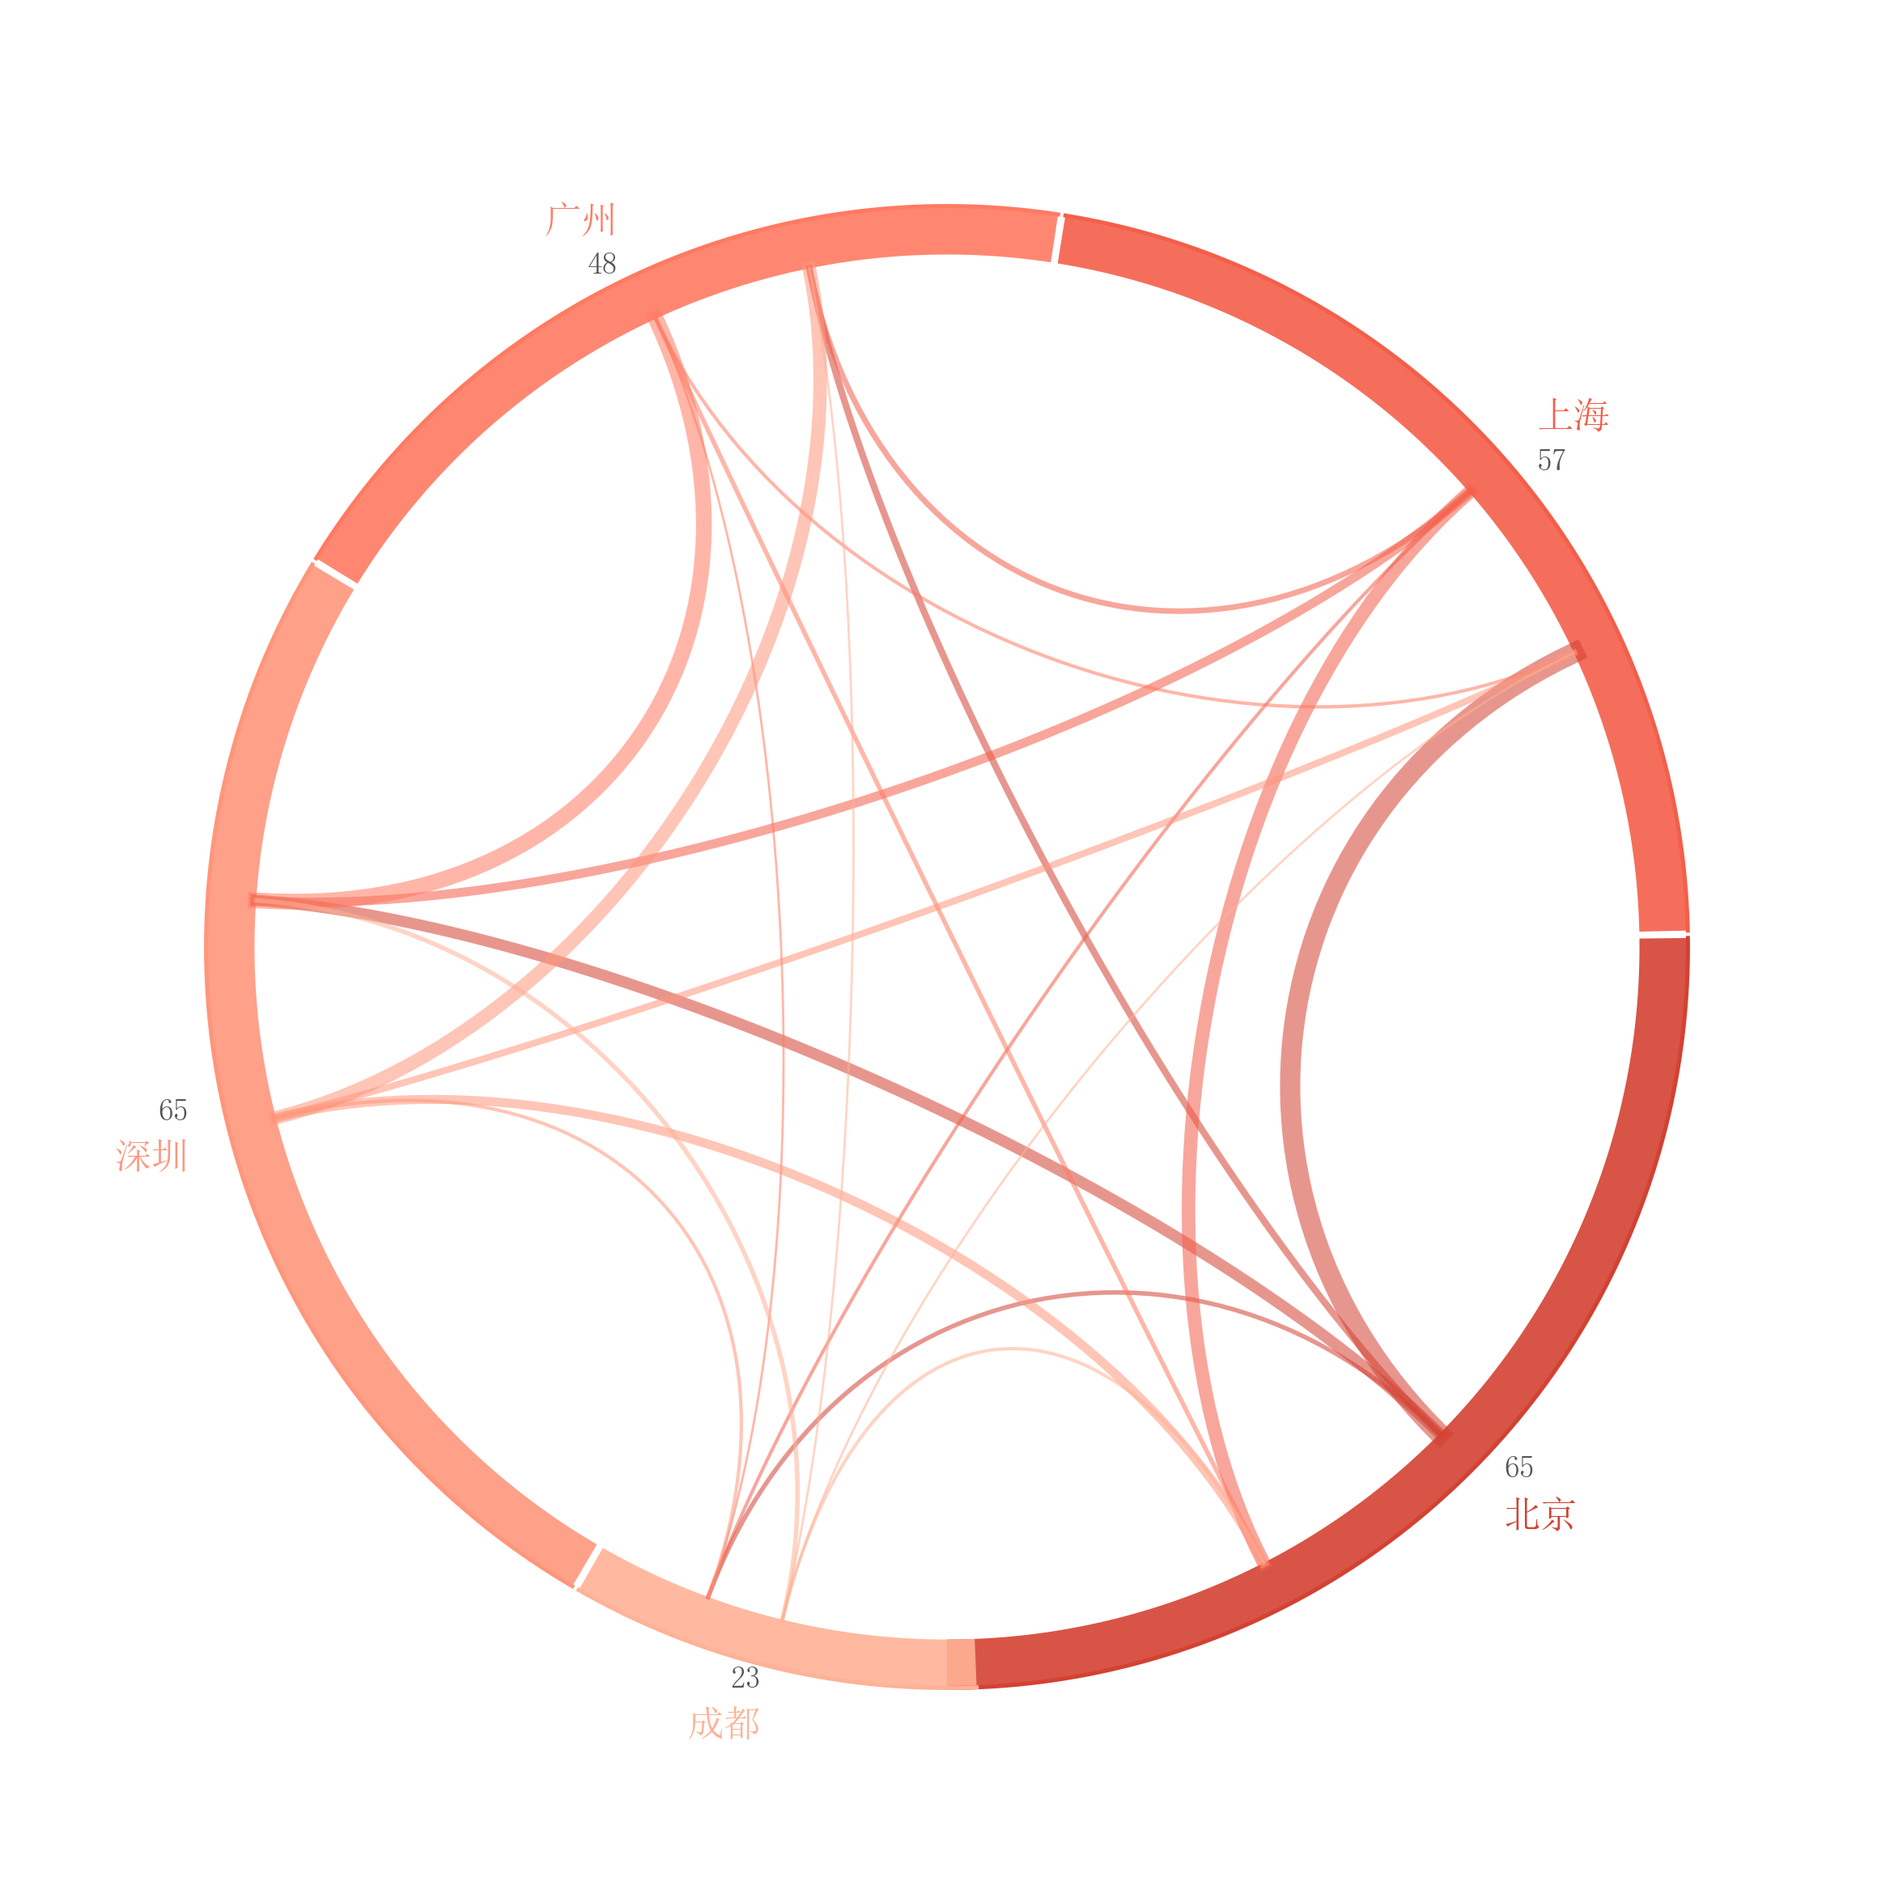
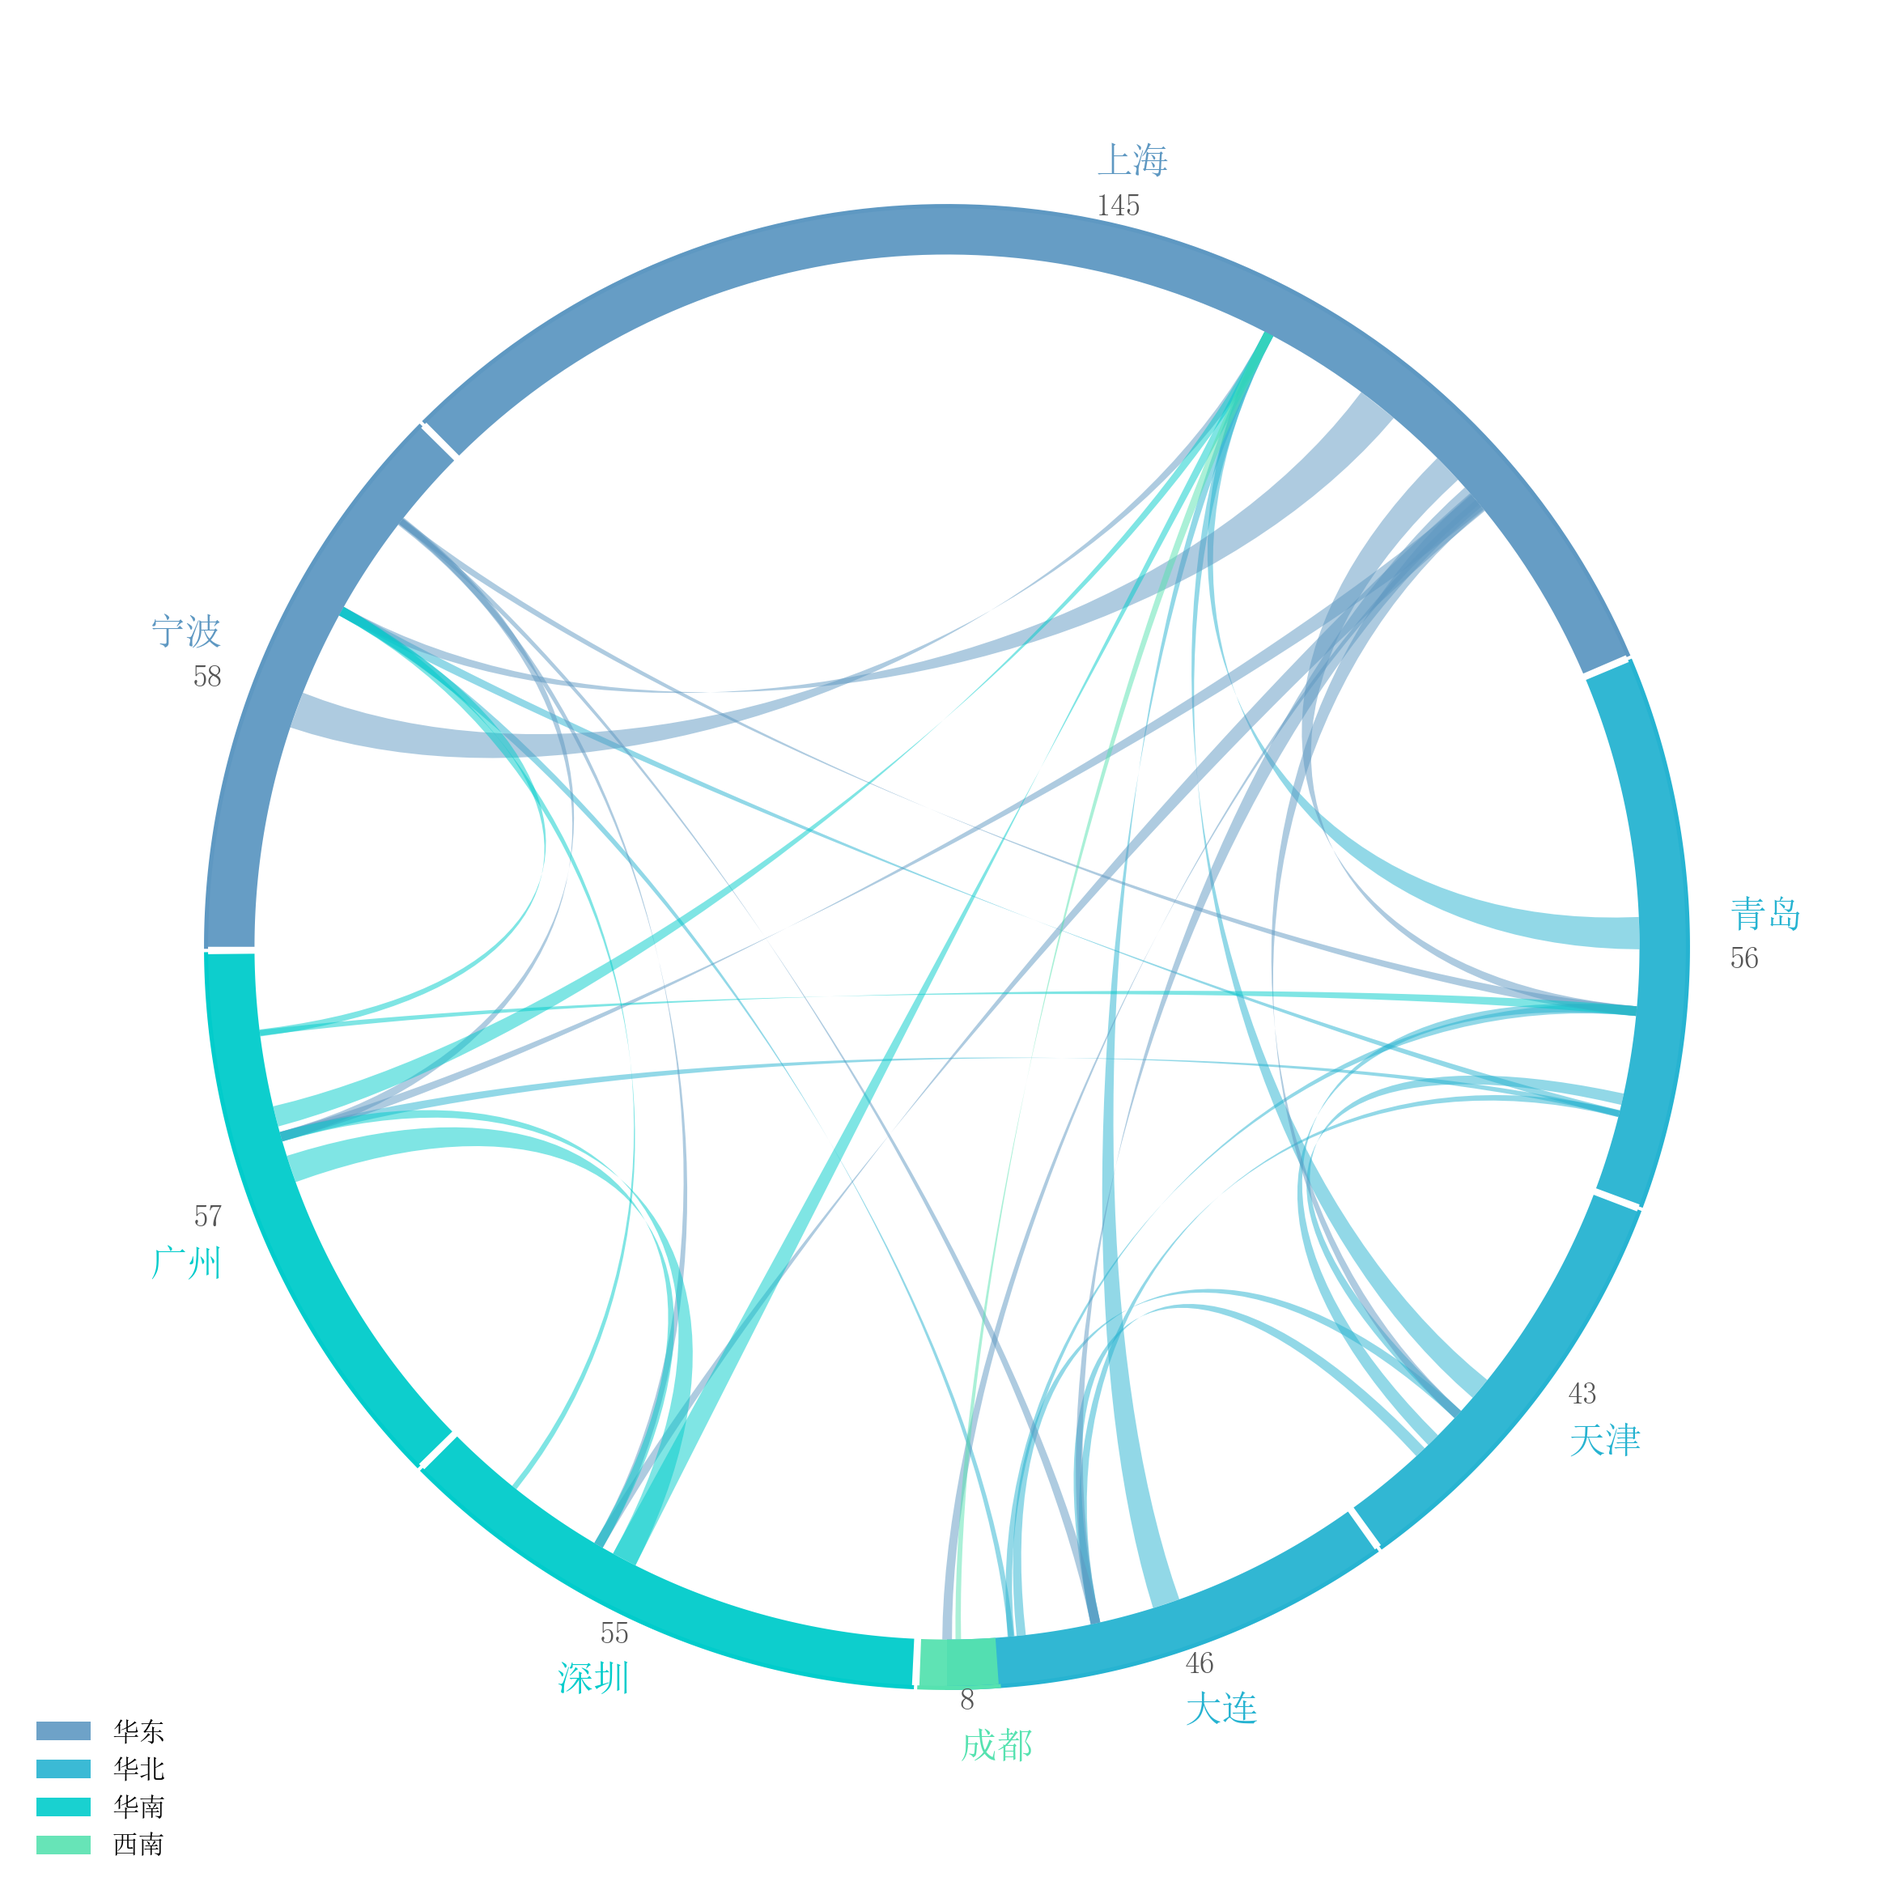
feat(chord): 弦图升级 - 渐变宽度弦Polygon/color_by分组着色+图例/min_flow过滤/流量比例定位

diff --git a/sciplot/_plots/advanced.py b/sciplot/_plots/advanced.py
@@ -603,7 +603,9 @@ def plot_chord(
     title: str = "",
     width: float = 0.07,
     gap: float = 0.01,
-    alpha: float = 0.55,
+    alpha: float = 0.5,
+    min_flow: float = 0.0,
+    color_by: Optional[List[str]] = None,
     show_values: bool = False,
     venue: Optional[str] = None,
     palette: Optional[str] = None,
@@ -613,21 +615,27 @@ def plot_chord(
     """
     绘制弦图（Chord Diagram，节点间流量/共现关系）
 
-    节点沿圆周排列，弧长编码节点总流量；节点间连线（贝塞尔曲线）
-    宽度编码双向流量，适合展示转移矩阵、共现关系、资源流向。
+    节点沿圆周排列，弧长编码节点总流量；节点间弦（渐变宽度多边形）
+    宽度编码流量、颜色取自源节点，源端宽而目标端收窄，
+    适合展示转移矩阵、共现关系、资源流向。
 
     参数:
         matrix     : 流量/共现矩阵 (n, n)，要求非负
         labels     : 节点标签（等长）；None 则用序号
         width      : 外圈弧宽（占单位半径比例），默认 0.07
         gap        : 弧段间最小间隙（弧度），默认 0.01
-        alpha      : 弦线透明度
+        alpha      : 弦透明度
+        min_flow   : 最小流量阈值，低于该值的弦不绘制（过滤噪声）
+        color_by   : 节点分类标签（等长）；提供时按类别着色并生成图例
         show_values: 是否在弧外显示各节点总量
 
     示例:
-        >>> # 城市间迁移流量
+        >>> # 城市间迁移流量（按区域分组着色）
         >>> fig, ax = sp.plot_chord(
-        ...     flow_matrix, labels=["北京", "上海", "广州", "深圳"],
+        ...     flow_matrix,
+        ...     labels=["北京", "上海", "广州", "深圳", "成都"],
+        ...     color_by=["华北", "华东", "华南", "华南", "西南"],
+        ...     min_flow=1.0,
         ... )
         >>> sp.save(fig, "chord")
     """
@@ -650,6 +658,13 @@ def plot_chord(
         labels = [str(i + 1) for i in range(n)]
     if not 0 < width < 1:
         raise ValueError(f"width 必须在 (0, 1) 范围内，实际值: {width!r}")
+    if min_flow < 0:
+        raise ValueError(f"min_flow 必须为非负数，实际值: {min_flow!r}")
+    if color_by is not None:
+        if len(color_by) != n:
+            raise ValueError(
+                f"color_by 长度 ({len(color_by)}) 与矩阵维度 ({n}) 不一致"
+            )
 
     effective_venue = apply_resolved_style(venue, palette, lang)
     from sciplot._core.style import VENUES
@@ -659,6 +674,16 @@ def plot_chord(
     fig, ax = plt.subplots(figsize=(size, size))
 
     colors = get_cycle_colors()
+
+    # 节点颜色：color_by 分类或默认逐节点
+    if color_by is not None:
+        unique_groups = sorted(set(color_by), key=str)
+        group_map = {g: colors[i % len(colors)] for i, g in enumerate(unique_groups)}
+        node_colors = [group_map[g] for g in color_by]
+        categorical_legend = group_map
+    else:
+        node_colors = [colors[i % len(colors)] for i in range(n)]
+        categorical_legend = None
 
     # 节点总流量（行 + 列）
     totals = mat.sum(axis=1) + mat.sum(axis=0)
@@ -684,43 +709,58 @@ def plot_chord(
         return r * np.cos(theta), r * np.sin(theta)
 
     # ── 外圈弧段 ──
-    theta_grid = np.linspace(0, 2 * np.pi, 720)
     for i in range(n):
         start, end = arc_starts[i], arc_ends[i]
-        color = colors[i % len(colors)]
+        color = node_colors[i]
         seg = np.linspace(start, end, 100)
         r_in = 1.0
         r_out = 1.0 + width
         xs = np.concatenate([r_out * np.cos(seg), r_in * np.cos(seg[::-1])])
         ys = np.concatenate([r_out * np.sin(seg), r_in * np.sin(seg[::-1])])
-        ax.fill(xs, ys, color=color, alpha=0.9, edgecolor="none")
+        ax.fill(xs, ys, color=color, alpha=0.95, edgecolor="none")
         ax.plot(r_out * np.cos(seg), r_out * np.sin(seg),
                 color=color, linewidth=1.2)
 
-    # ── 弦线（贝塞尔） ──
+    # ── 弦（渐变宽度多边形：源端宽编码流量，目标端收窄） ──
     max_flow = float(mat.max()) if mat.size else 1.0
     if max_flow <= 0:
         max_flow = 1.0
+
+    def _bezier_curve(
+        p0: Tuple[float, float], p3: Tuple[float, float], n_pts: int = 48
+    ) -> Tuple[np.ndarray, np.ndarray]:
+        """三次贝塞尔（控制点取半径 0.5 处）。"""
+        p1 = (p0[0] * 0.5, p0[1] * 0.5)
+        p2 = (p3[0] * 0.5, p3[1] * 0.5)
+        t = np.linspace(0, 1, n_pts)
+        bx = ((1 - t) ** 3 * p0[0] + 3 * (1 - t) ** 2 * t * p1[0]
+              + 3 * (1 - t) * t**2 * p2[0] + t**3 * p3[0])
+        by = ((1 - t) ** 3 * p0[1] + 3 * (1 - t) ** 2 * t * p1[1]
+              + 3 * (1 - t) * t**2 * p2[1] + t**3 * p3[1])
+        return bx, by
+
     for i in range(n):
+        row_total = float(mat[i].sum())
         for j in range(n):
             flow = float(mat[i, j])
-            if flow <= 0 or i == j:
+            if flow <= 0 or i == j or flow < min_flow:
                 continue
-            # 源点：i 弧段内按流量比例取位置；终点：j 弧段起始段
-            src_theta = arc_starts[i] + (arc_ends[i] - arc_starts[i]) * 0.5
-            tgt_theta = arc_starts[j] + (arc_ends[j] - arc_starts[j]) * 0.3
-            p0 = _polar_to_cart(src_theta, 1.0)
-            p3 = _polar_to_cart(tgt_theta, 1.0)
-            p1 = _polar_to_cart(src_theta, 0.5)
-            p2 = _polar_to_cart(tgt_theta, 0.5)
-            t = np.linspace(0, 1, 60)
-            bx = ((1 - t) ** 3 * p0[0] + 3 * (1 - t) ** 2 * t * p1[0]
-                  + 3 * (1 - t) * t**2 * p2[0] + t**3 * p3[0])
-            by = ((1 - t) ** 3 * p0[1] + 3 * (1 - t) ** 2 * t * p1[1]
-                  + 3 * (1 - t) * t**2 * p2[1] + t**3 * p3[1])
-            lw = max(0.5, flow / max_flow * 6.0)
-            ax.plot(bx, by, color=colors[i % len(colors)],
-                    alpha=alpha, linewidth=lw, zorder=2)
+            # 源端角度：按该流量占 i 行总出量的比例定位在弧段内
+            src_frac = flow / row_total if row_total > 0 else 0.5
+            src_theta = arc_starts[i] + (arc_ends[i] - arc_starts[i]) * min(0.85, max(0.15, src_frac))
+            tgt_theta = arc_starts[j] + (arc_ends[j] - arc_starts[j]) * 0.35
+            # 源端宽度 ∝ 流量，目标端固定窄宽（视觉层次）
+            half_w = max(0.004, flow / max_flow * 0.03)
+            p0a = _polar_to_cart(src_theta - half_w, 1.0)
+            p0b = _polar_to_cart(src_theta + half_w, 1.0)
+            p3a = _polar_to_cart(tgt_theta - 0.007, 1.0)
+            p3b = _polar_to_cart(tgt_theta + 0.007, 1.0)
+            bx_top, by_top = _bezier_curve(p0a, p3a)
+            bx_bot, by_bot = _bezier_curve(p0b, p3b)
+            poly_x = np.concatenate([bx_top, bx_bot[::-1]])
+            poly_y = np.concatenate([by_top, by_bot[::-1]])
+            ax.fill(poly_x, poly_y, color=node_colors[i], alpha=alpha,
+                    edgecolor="none", zorder=2)
 
     # ── 标签与数值 ──
     label_r = 1.0 + width + 0.06
@@ -731,11 +771,21 @@ def plot_chord(
         ha = "left" if np.cos(mid) >= 0 else "right"
         va = "bottom" if np.sin(mid) >= 0 else "top"
         ax.text(x, y, labels[i], ha=ha, va=va, fontsize=fontsize,
-                color=colors[i % len(colors)], fontweight="bold")
+                color=node_colors[i], fontweight="bold")
         if show_values:
             ax.text(x, y - (0.06 if np.sin(mid) >= 0 else -0.06),
                     f"{totals[i]:.0f}", ha=ha, va=va,
                     fontsize=max(6, fontsize - 2), color="#555555")
+
+    # ── 分类图例 ──
+    if categorical_legend is not None:
+        from matplotlib.patches import Patch
+
+        handles = [
+            Patch(facecolor=c, label=str(g), alpha=0.9)
+            for g, c in categorical_legend.items()
+        ]
+        ax.legend(handles=handles, loc="lower left", frameon=False, fontsize=8)
 
     ax.set_xlim(-1.35, 1.35)
     ax.set_ylim(-1.35, 1.35)

diff --git a/showcase/28_chord.py b/showcase/28_chord.py
@@ -1,30 +1,39 @@
 """
 28_chord.py — 弦图
 
-展示 plot_chord()：五大城市间人才流动（万人/年）。
-场景：城市群人才迁移流量矩阵。
+展示 plot_chord()：八大港口城市间的集装箱货流（万 TEU/年）。
+按区域分组着色（华北/华东/华南/西南），min_flow 过滤低频航线。
 """
 
 import numpy as np
 import sciplot as sp
 
 # ── 数据生成 ──────────────────────────────────────────────────
-cities = ["北京", "上海", "广州", "深圳", "成都"]
-# 非对称流量矩阵：行=出发，列=到达（万人/年）
+cities = ["大连", "天津", "青岛", "上海", "宁波", "广州", "深圳", "成都"]
+regions = ["华北", "华北", "华北", "华东", "华东", "华南", "华南", "西南"]
+
+# 非对称流量矩阵：行=出发港，列=到达港（万 TEU/年）
+# 结构：沿海枢纽（上海/深圳）为核心，区域间干线强、支线弱
 flow = np.array([
-    [0,   18,  6,  10,  4],
-    [12,  0,   5,   8,  3],
-    [4,   3,   0,  14,  2],
-    [8,   6,  12,  0,   3],
-    [3,   2,   2,   4,  0],
+    # 大连  天津  青岛  上海  宁波  广州  深圳  成都
+    [  0,    4,    3,   12,    2,    1,    1,    0],   # 大连
+    [  5,    0,    6,   10,    1,    1,    0,    0],   # 天津
+    [  3,    5,    0,   14,    3,    2,    1,    0],   # 青岛
+    [ 11,    9,   13,    0,   18,    8,   10,    2],   # 上海
+    [  2,    1,    3,   16,    0,    4,    3,    0],   # 宁波
+    [  1,    1,    2,    9,    3,    0,   12,    1],   # 广州
+    [  1,    0,    1,   11,    2,   11,    0,    1],   # 深圳
+    [  0,    0,    0,    2,    0,    1,    1,    0],   # 成都
 ], dtype=float)
 
 # ── 绘图 ──────────────────────────────────────────────────────
-sp.setup_style("presentation", "sunset", lang="zh")
+sp.setup_style("presentation", "ocean", lang="zh")
 
 fig, ax = sp.plot_chord(
     flow,
     labels=cities,
+    color_by=regions,
+    min_flow=2.0,        # 过滤低频支线（<2 万 TEU 不画）
     show_values=True,
 )
 

diff --git a/tests/unit/test_chord.py b/tests/unit/test_chord.py
@@ -24,11 +24,14 @@ def chord_matrix():
 def test_chord_basic(chord_matrix, cleanup_figures):
     result = sp.plot_chord(chord_matrix, labels=["A", "B", "C", "D"])
     assert result.fig is not None
-    # 4 段弧 → 4 个 fill patch
+    # 4 个节点标签（弧段 + 弦均为 Polygon，以标签文本验证节点数）
+    texts = [t.get_text() for t in result.ax.texts]
+    assert "A" in texts and "D" in texts
+    # 存在弧段填充（面积大）与弦填充
     from matplotlib.patches import Polygon
 
     n_polys = sum(1 for p in result.ax.patches if isinstance(p, Polygon))
-    assert n_polys == 4
+    assert n_polys >= 4
 
 
 def test_chord_labels(chord_matrix, cleanup_figures):
@@ -78,6 +81,35 @@ def test_chord_bad_width_raises(chord_matrix, cleanup_figures):
 def test_chord_single_node_raises(cleanup_figures):
     with pytest.raises(ValueError, match="至少需要 2 个"):
         sp.plot_chord(np.array([[5.0]]))
+
+
+def test_chord_color_by_legend(chord_matrix, cleanup_figures):
+    """color_by 分组应生成类别图例。"""
+    result = sp.plot_chord(
+        chord_matrix, labels=["A", "B", "C", "D"],
+        color_by=["组1", "组1", "组2", "组2"],
+    )
+    legend = result.ax.get_legend()
+    assert legend is not None
+    texts = [t.get_text() for t in legend.get_texts()]
+    assert texts == ["组1", "组2"]
+
+
+def test_chord_min_flow_filter(chord_matrix, cleanup_figures):
+    """min_flow 过滤小流量弦。"""
+    result = sp.plot_chord(chord_matrix, labels=["A", "B", "C", "D"], min_flow=10.0)
+    assert result.fig is not None
+
+
+def test_chord_bad_min_flow_raises(chord_matrix, cleanup_figures):
+    with pytest.raises(ValueError, match="min_flow"):
+        sp.plot_chord(chord_matrix, min_flow=-1.0)
+
+
+def test_chord_color_by_mismatch_raises(chord_matrix, cleanup_figures):
+    with pytest.raises(ValueError, match="color_by"):
+        sp.plot_chord(chord_matrix, labels=["A", "B", "C", "D"],
+                      color_by=["x", "y"])
 
 
 def test_chord_alias_and_export(chord_matrix, cleanup_figures):
